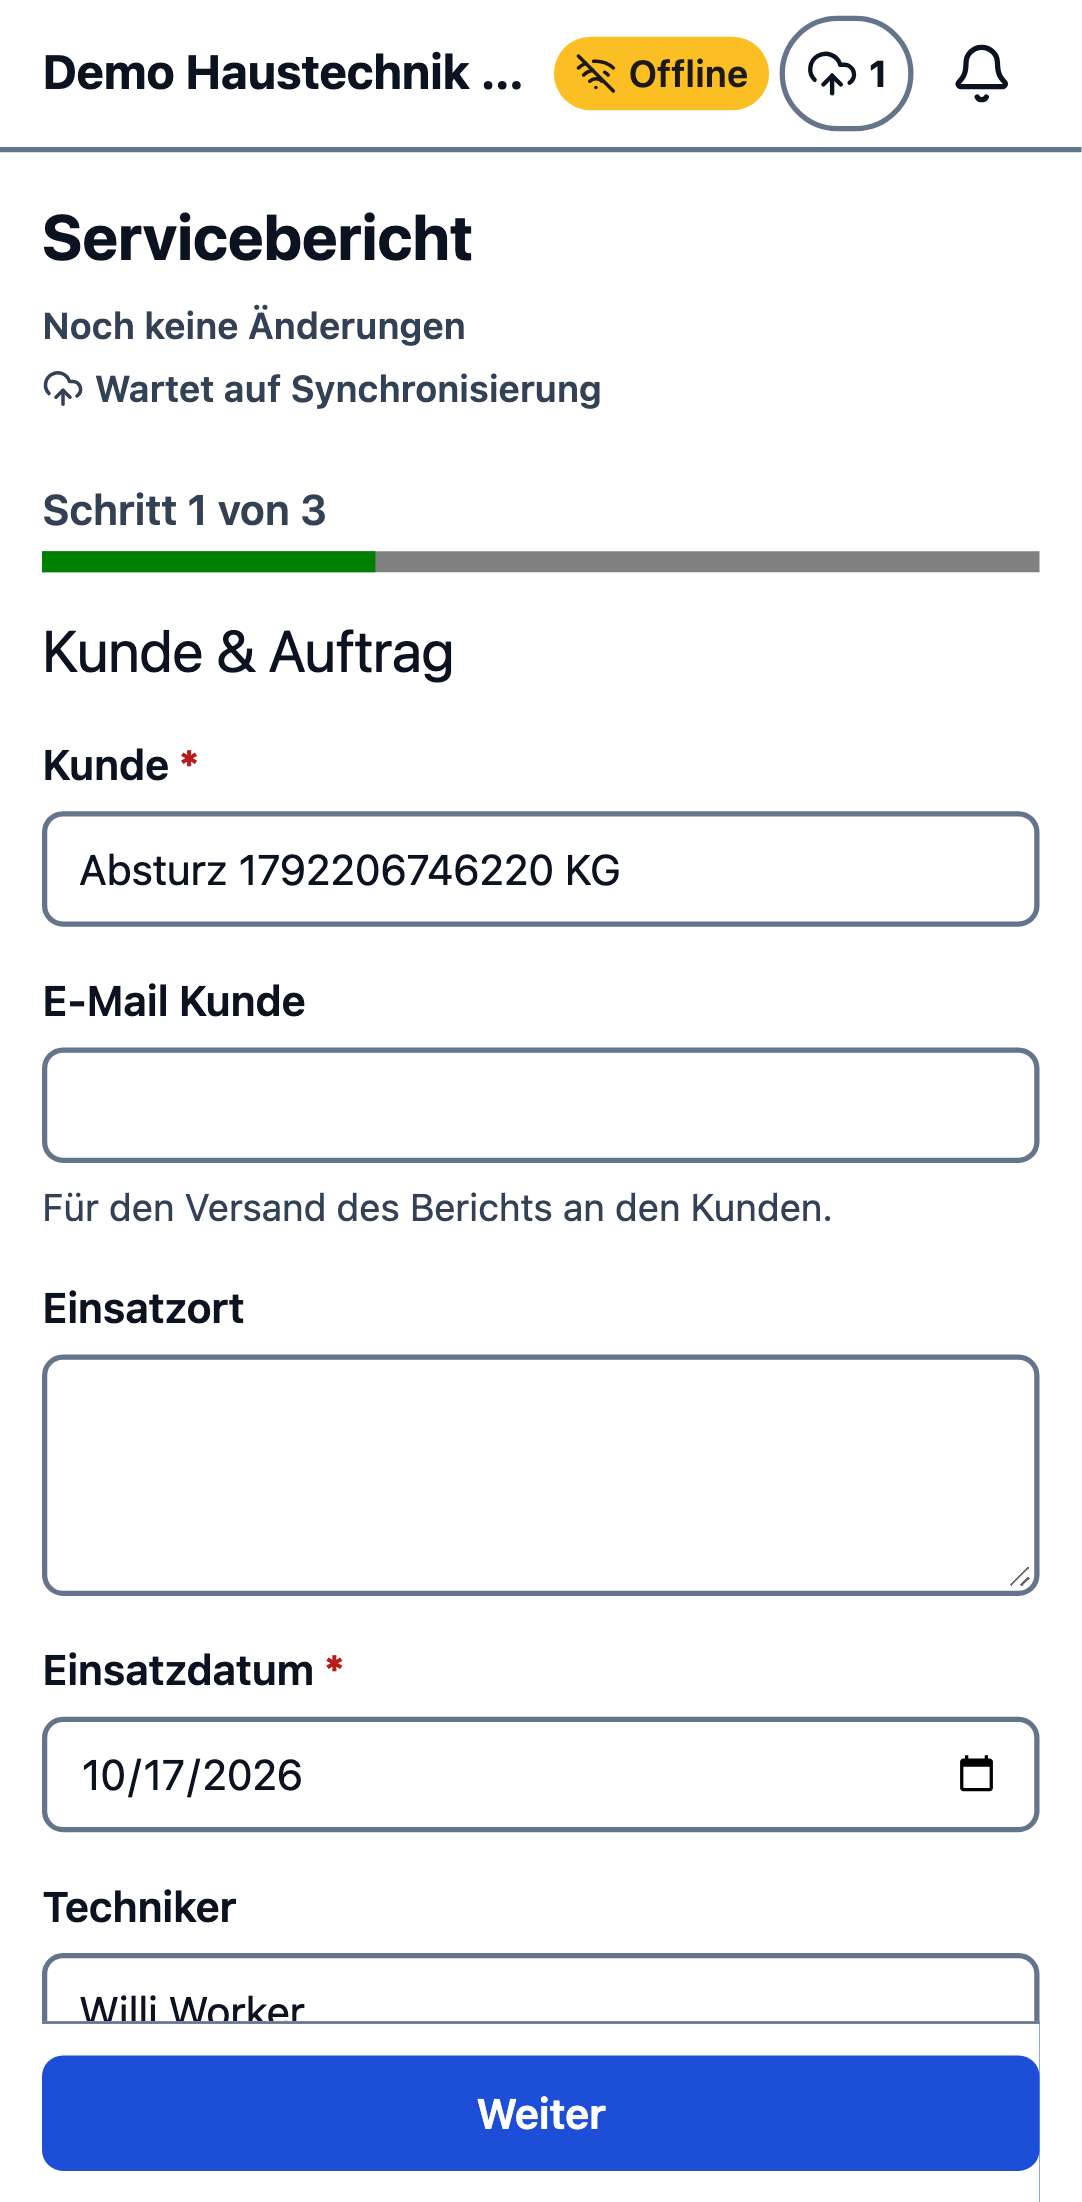
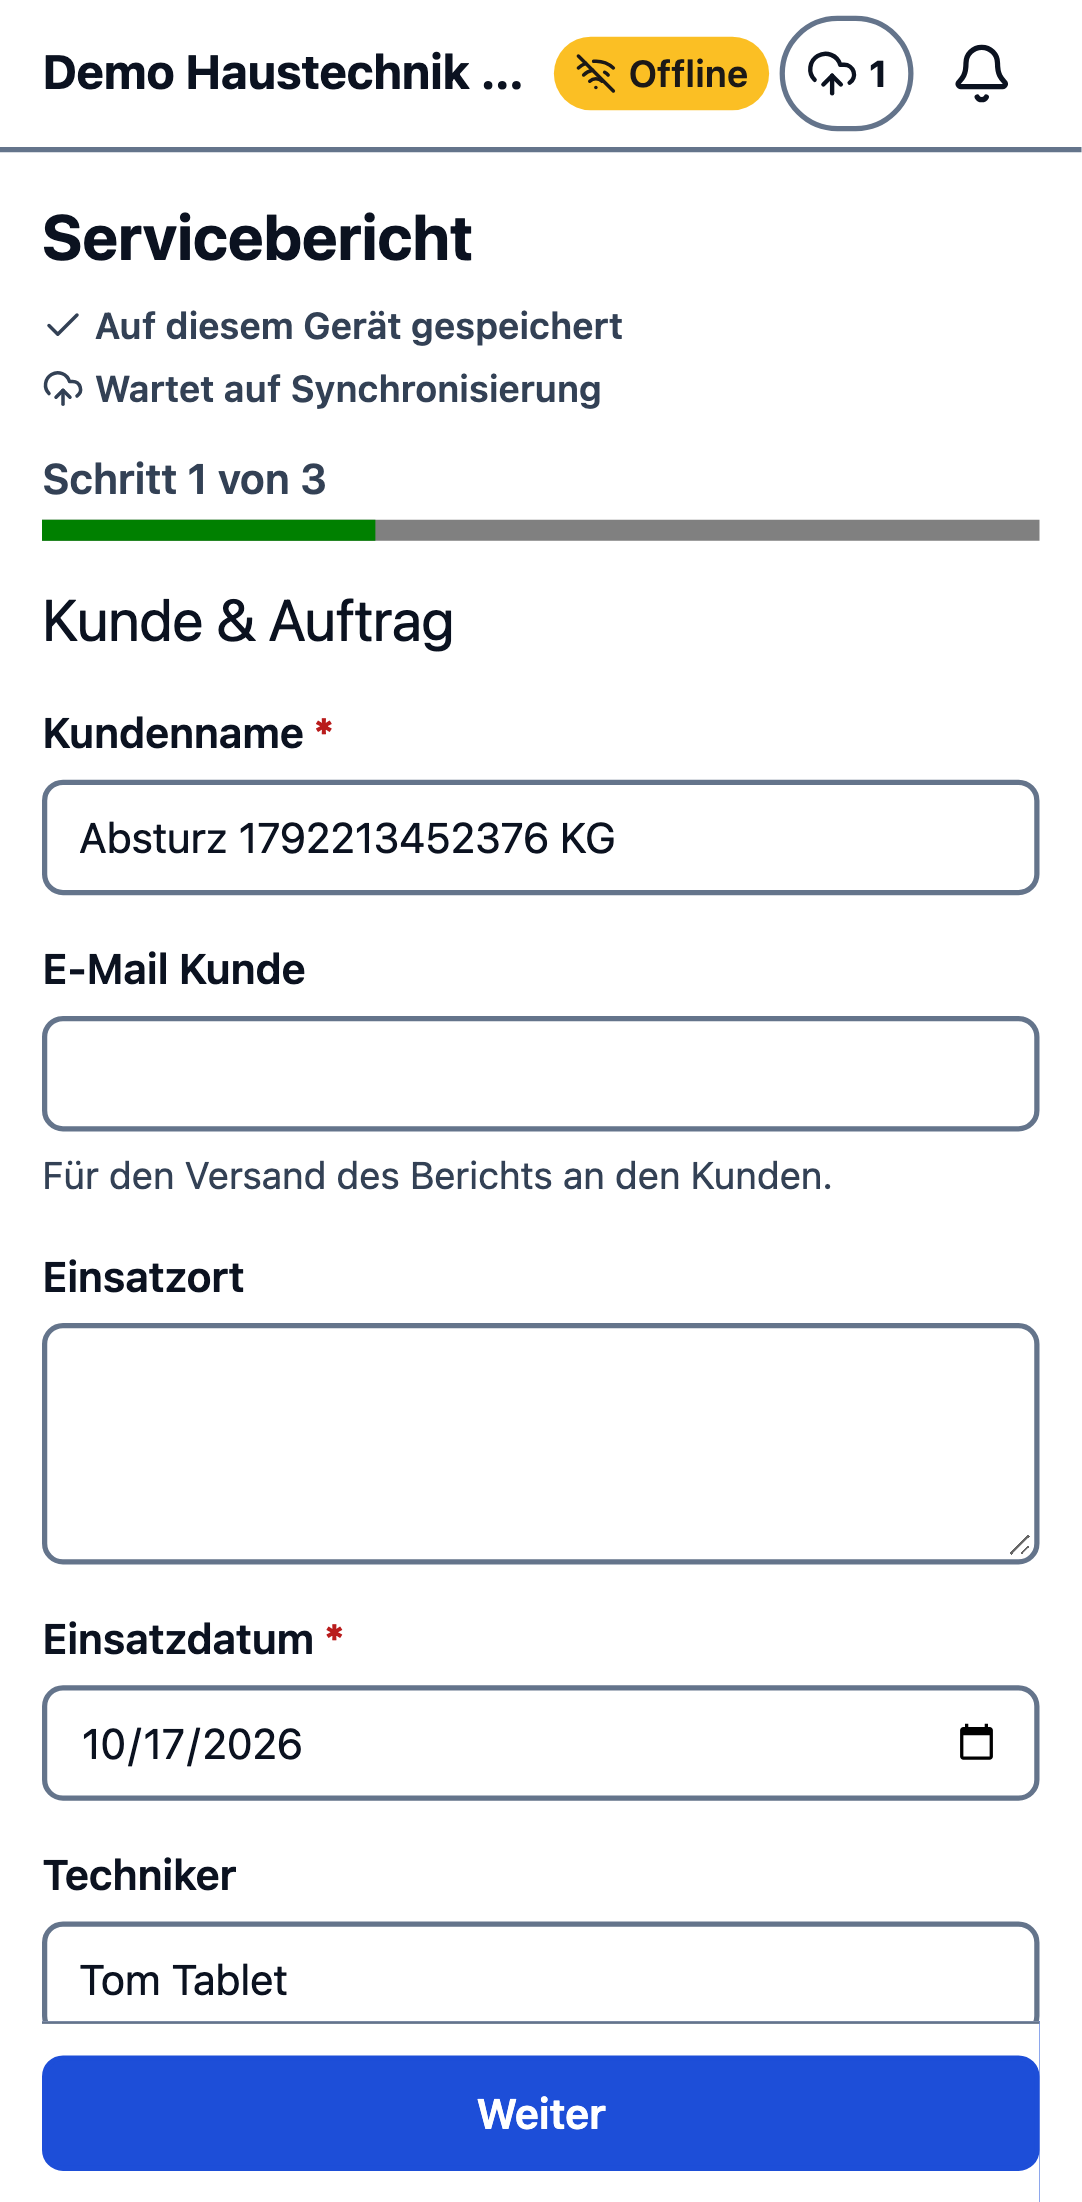
test: M6 E2E spreads logins over a third demo worker; builder waits allow the heavy page
- tablet@demo.test: the Fortify login limit (5/min per email+IP) was hit by 10 worker logins
- Builder navigation and publish confirmation wait up to 30 s (QUESTIONS #8) under load
- Wipe notice regex follows the new text; seeded member count 8 → 9

Changed region(s): [[0.0305, 0.2162, 0.976, 0.6176], [0.0305, 0.7103, 0.976, 0.9264], [0.0305, 0.1235, 0.5795, 0.1544]]

diff --git a/tests/e2e/m6-offline.spec.ts b/tests/e2e/m6-offline.spec.ts
@@ -19,6 +19,8 @@ const evidence = (name: string) => `docs/agent/milestones/evidence/M6/${name}.pn
 const NUMBER = /SR-\d{4}-\d{5}/;
 const QUEUED = /ready to send|bereit zum senden|number pending|nummer ausstehend/i;
 const SAVED_LOCAL = /saved on this device|auf diesem gerät gespeichert/i;
+// Its own demo worker: the login limit is 5 per minute per email, and other specs sign in as worker@.
+const WORKER = 'tablet@demo.test';
 
 async function phone(browser: Browser): Promise<{ context: BrowserContext; page: Page }> {
   // An explicit empty state: inside a describe with an admin storageState, newContext would inherit it.
@@ -42,7 +44,7 @@ test.describe('offline-first field app', () => {
     test.setTimeout(300_000);
     const customer = `Offline ${Date.now()} GmbH`;
     const { context, page } = await phone(browser);
-    await fieldAppLogin(page, 'worker@demo.test');
+    await fieldAppLogin(page, WORKER);
     await waitForOfflineReady(page);
 
     await context.setOffline(true);
@@ -77,7 +79,7 @@ test.describe('offline-first field app', () => {
     test.setTimeout(120_000);
     const customer = `Absturz ${Date.now()} KG`;
     const { context, page } = await phone(browser);
-    await fieldAppLogin(page, 'worker@demo.test');
+    await fieldAppLogin(page, WORKER);
     await waitForOfflineReady(page);
     await context.setOffline(true); // the device copy is then the only copy
     await startServiceReport(page, customer);
@@ -100,7 +102,7 @@ test.describe('offline-first field app', () => {
     test.setTimeout(240_000);
     const customer = `Sitzung ${Date.now()} AG`;
     const { context, page } = await phone(browser);
-    await fieldAppLogin(page, 'worker@demo.test');
+    await fieldAppLogin(page, WORKER);
     await waitForOfflineReady(page);
 
     await context.setOffline(true);
@@ -117,7 +119,7 @@ test.describe('offline-first field app', () => {
     expect(await countRows(page, 'outbox')).toBe(queued); // nothing lost, nothing sent
     await page.screenshot({ path: evidence('05-reauth') });
 
-    await page.getByLabel(/^(email|e-mail)$/i).fill('worker@demo.test');
+    await page.getByLabel(/^(email|e-mail)$/i).fill(WORKER);
     await page.getByLabel(/^(password|passwort)$/i).fill('password');
     await page.getByRole('button', { name: /^(sign in|anmelden)$/i }).click();
     await expect(page.getByText(/^(hello|hallo), /i)).toBeVisible({ timeout: 20_000 });
@@ -152,7 +154,7 @@ test.describe('offline-first field app', () => {
       await member(/^deaktivieren$/i);
       try {
         await context.setOffline(false);
-        await expect(page.getByText(/local data was removed|lokalen daten wurden gelöscht/i)).toBeVisible({
+        await expect(page.getByText(/removed its local data|lokalen daten gelöscht/i)).toBeVisible({
           timeout: 60_000,
         });
         await page.screenshot({ path: evidence('06-wiped') });

diff --git a/tests/e2e/m2-builder.spec.ts b/tests/e2e/m2-builder.spec.ts
@@ -18,7 +18,7 @@ test('designer previews an unsaved change in the phone frame, then publishes', a
     .getByRole('button', { name: /submit|absenden|erstellen|create/i })
     .first()
     .click();
-  await expect(page).toHaveURL(/\/forms\/\d+\/edit/);
+  await expect(page).toHaveURL(/\/forms\/\d+\/edit/, { timeout: 30_000 }); // the builder page is heavy (QUESTIONS #8)
 
   // Change the title without saving; the preview must show the unsaved state.
   await page.getByRole('tab', { name: /formulareinstellungen|form settings/i }).click();
@@ -44,7 +44,7 @@ test('designer previews an unsaved change in the phone frame, then publishes', a
     .getByRole('button', { name: /submit|absenden|veröffentlichen|publish/i })
     .last()
     .click();
-  await expect(page.getByText(/version 1|v1/i).first()).toBeVisible();
+  await expect(page.getByText(/version 1|v1/i).first()).toBeVisible({ timeout: 30_000 }); // publishing round-trips the heavy builder state
 });
 
 test('designer imports a fillable PDF as a draft form', async ({ page }) => {

diff --git a/tests/e2e/m1-builder.spec.ts b/tests/e2e/m1-builder.spec.ts
@@ -20,7 +20,7 @@ test('designer builds a form from the service report template and publishes v1',
     .first()
     .click();
 
-  await expect(page).toHaveURL(/\/forms\/\d+\/edit/);
+  await expect(page).toHaveURL(/\/forms\/\d+\/edit/, { timeout: 30_000 }); // the builder page is heavy (QUESTIONS #8)
   await page.screenshot({ path: evidence('02-builder'), fullPage: true });
 
   await page
@@ -33,6 +33,6 @@ test('designer builds a form from the service report template and publishes v1',
     .getByRole('button', { name: /submit|absenden|veröffentlichen|publish/i })
     .last()
     .click();
-  await expect(page.getByText(/version 1|v1/i).first()).toBeVisible();
+  await expect(page.getByText(/version 1|v1/i).first()).toBeVisible({ timeout: 30_000 }); // publishing round-trips the heavy builder state
   await page.screenshot({ path: evidence('03-published'), fullPage: true });
 });

diff --git a/database/seeders/DemoSeeder.php b/database/seeders/DemoSeeder.php
@@ -53,8 +53,10 @@ final class DemoSeeder extends Seeder
             ['reviewer@demo.test', 'Rita Reviewer', [SystemRole::Reviewer], [$office->id]],
             ['coordinator@demo.test', 'Cora Coordinator', [SystemRole::Designer, SystemRole::Reviewer], [$office->id]],
             ['worker@demo.test', 'Willi Worker', [SystemRole::FieldWorker], [$north->id]],
-            // Second field worker: the offline E2E deactivates and reactivates this membership (M6).
+            // More field workers for the offline E2E (M6): one is deactivated and reactivated there, and the
+            // journeys spread their logins (the login limit is 5 per minute per email and IP).
             ['mobile@demo.test', 'Mia Mobil', [SystemRole::FieldWorker], [$north->id]],
+            ['tablet@demo.test', 'Tom Tablet', [SystemRole::FieldWorker], [$north->id]],
             ['viewer@demo.test', 'Vera Viewer', [SystemRole::Viewer], []],
         ];
 

diff --git a/tests/Feature/Console/InstallAndSeedTest.php b/tests/Feature/Console/InstallAndSeedTest.php
@@ -55,7 +55,7 @@ it('seeds one demo user per persona, idempotently', function (): void {
 
     $org = Organization::query()->where('slug', 'demo')->sole();
     $coordinator = User::query()->where('email', 'coordinator@demo.test')->sole();
-    expect($org->members()->count())->toBe(8)
+    expect($org->members()->count())->toBe(9)
         ->and($coordinator->hasPermissionIn($org, Permission::FormsManage))->toBeTrue()
         ->and($coordinator->hasPermissionIn($org, Permission::SubmissionsReview))->toBeTrue();
 });

diff --git a/README.md b/README.md
@@ -45,7 +45,7 @@ php artisan test --compact
 
 Demo users (seeded with `php artisan db:seed`, password `password`): `owner@demo.test`,
 `admin@demo.test`, `designer@demo.test`, `reviewer@demo.test`, `coordinator@demo.test`,
-`worker@demo.test`, `mobile@demo.test` (second field worker), `viewer@demo.test`. The demo organization has a published service report and a
+`worker@demo.test`, `mobile@demo.test` and `tablet@demo.test` (more field workers), `viewer@demo.test`. The demo organization has a published service report and a
 "review, then email the PDF to the customer" workflow. Mailpit UI: http://localhost:18025.
 
 | URL | What |
